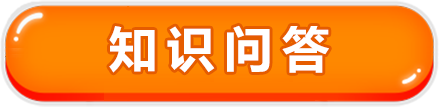
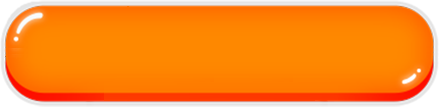
lm

Changed region(s): [[0.2369, 0.1963, 0.7699, 0.729]]

diff --git a/src/pages/home.vue b/src/pages/home.vue
@@ -1,29 +1,41 @@
 <template>
   <div class="mainIndex">
-  	<router-link class="game1" to="/know"></router-link>
-  	<router-link class="game2" to="/puzzle"></router-link>
+  	<div class="enterBtnWrap">
+  		<router-link class="game" to="/know">知识问答知识问答</router-link>
+  		<router-link class="game" to="/puzzle">趣味拼图</router-link>
+  	</div>
+  	<p class="brand">文化嘉定云</p>
   </div>
 </template>
 <style lang="scss" scoped>
-	body,html{
-		width: 100%;
-		height: 100%;
-	}
 	.mainIndex{
 		width: 750px;
-		height: 100%;
+		min-height: 100vh;
 		margin: 0 auto;
 		position: relative;
-		.game1,.game2{
+		overflow: hidden;
+		.enterBtnWrap{
+			margin-top: 700px;
+		}
+		.game{
+			display: block;
 			width: 439px;
 			height: 107px;
-			position: absolute;
-			left: 50%;
-			margin-left: -218px;
-			bottom: 495px;
+			margin: 0 auto 40px;
+			font-size: 48px;
+			font-weight: bold;
+			text-align: center;
+			line-height: 96px;
+			color: #fff;
+			font-family: "微软雅黑";
+			letter-spacing: 5px;
+			overflow: hidden;
 		}
-		.game2{
-			bottom: 345px;
+		.brand{
+			font-size: 22px;
+			color: #fff;
+			text-align: center;
+			margin: 110px 0;
 		}
 	}
 </style>

diff --git a/src/pages/puzzle/index.vue b/src/pages/puzzle/index.vue
@@ -102,8 +102,8 @@
 
 <style lang="scss" scoped>
   .puzzleHome{
-    height: 100vh;
-    overflow: hidden;
+    min-height: 100vh;
+    overflow: auto;
     position: relative;
     .title{
       display: block;
@@ -117,12 +117,11 @@
       justify-content: center;
       align-items: center;
       .scroll{
-        width:480px;
+        width:460px;
         height:360px;
-        overflow-y: auto;
         font-size: 28px;
         p{
-          width: 460px;
+          text-align: justify;
           margin: 15px 0;
           line-height: 1.3;
         }

diff --git a/src/assets/css/theme.scss b/src/assets/css/theme.scss
@@ -5,13 +5,11 @@
 		background: url(../img/bg1-1.png) no-repeat center;
 		background-size: 100% 100%;
 	}
-	.mainIndex .game1{
+	.mainIndex .game{
 		background: url(../img/btn1-1.png) no-repeat center;
 		background-size: 100% 100%;
-	}
-	.mainIndex .game2{
-		background: url(../img/btn1-2.png) no-repeat center;
-		background-size: 100% 100%;
+		-webkit-text-stroke: 3px #7a9707; //春 冬 6ca3ff 秋 e51b00 夏e55c00
+
 	}
   background-color:  $mColor1;
   /* 答题首页 */

diff --git a/src/pages/scoreList.vue b/src/pages/scoreList.vue
@@ -23,9 +23,9 @@
 </script>
 <style lang="scss" scoped>
 	.scoreWrap{
-		height: 100vh;
+		min-height: 100vh;
     background: url('../assets/img/m-bg3.png') center bottom no-repeat;
-    overflow: hidden;
+    overflow: auto;
     position: relative;
     .userInfo{
       width: 110px;
@@ -94,6 +94,7 @@
     }
     .backHome{
       margin-top: 35px;
+      margin-bottom: 30px;
     }
 	}
 </style>

diff --git a/src/pages/know/index.vue b/src/pages/know/index.vue
@@ -30,9 +30,9 @@
 
 <style lang="scss" scoped>
   .knowIndex{
-    height: 100vh;
+    min-height: 100vh;
     background: url('../../assets/img/m-bg2.png') center bottom no-repeat;
-    overflow: hidden;
+    overflow: auto;
     position: relative;
     .mainTit{
       width: 428px;
@@ -69,6 +69,7 @@
     }
     .scoreBtn{
       margin-top: 30px;
+      margin-bottom: 50px;
     }
   }
 </style>

diff --git a/src/pages/gameover.vue b/src/pages/gameover.vue
@@ -14,9 +14,9 @@
 </script>
 <style lang="scss" scoped>
 	.gameover{
-		height: 100vh;
+		min-height: 100vh;
     background: url('../assets/img/m-bg3.png') center bottom no-repeat;
-    overflow: hidden;
+    overflow: auto;
     position: relative;
     .overImg{
     	margin: 122px auto 0;

diff --git a/src/pages/puzzle/game.vue b/src/pages/puzzle/game.vue
@@ -57,7 +57,7 @@ export default {
 
 <style lang="scss">
   #gameBody{
-    height: 100vh;
+    min-height: 100vh;
     padding-top: 80px;
     p{
       color: #fff;

diff --git a/src/App.vue b/src/App.vue
@@ -35,7 +35,7 @@ body,html{
 #app {
   width: 750px;
   margin: 0 auto;
-  height: 100%;
+  min-height: 100vh;
   position: relative;
 }
 .bg{
